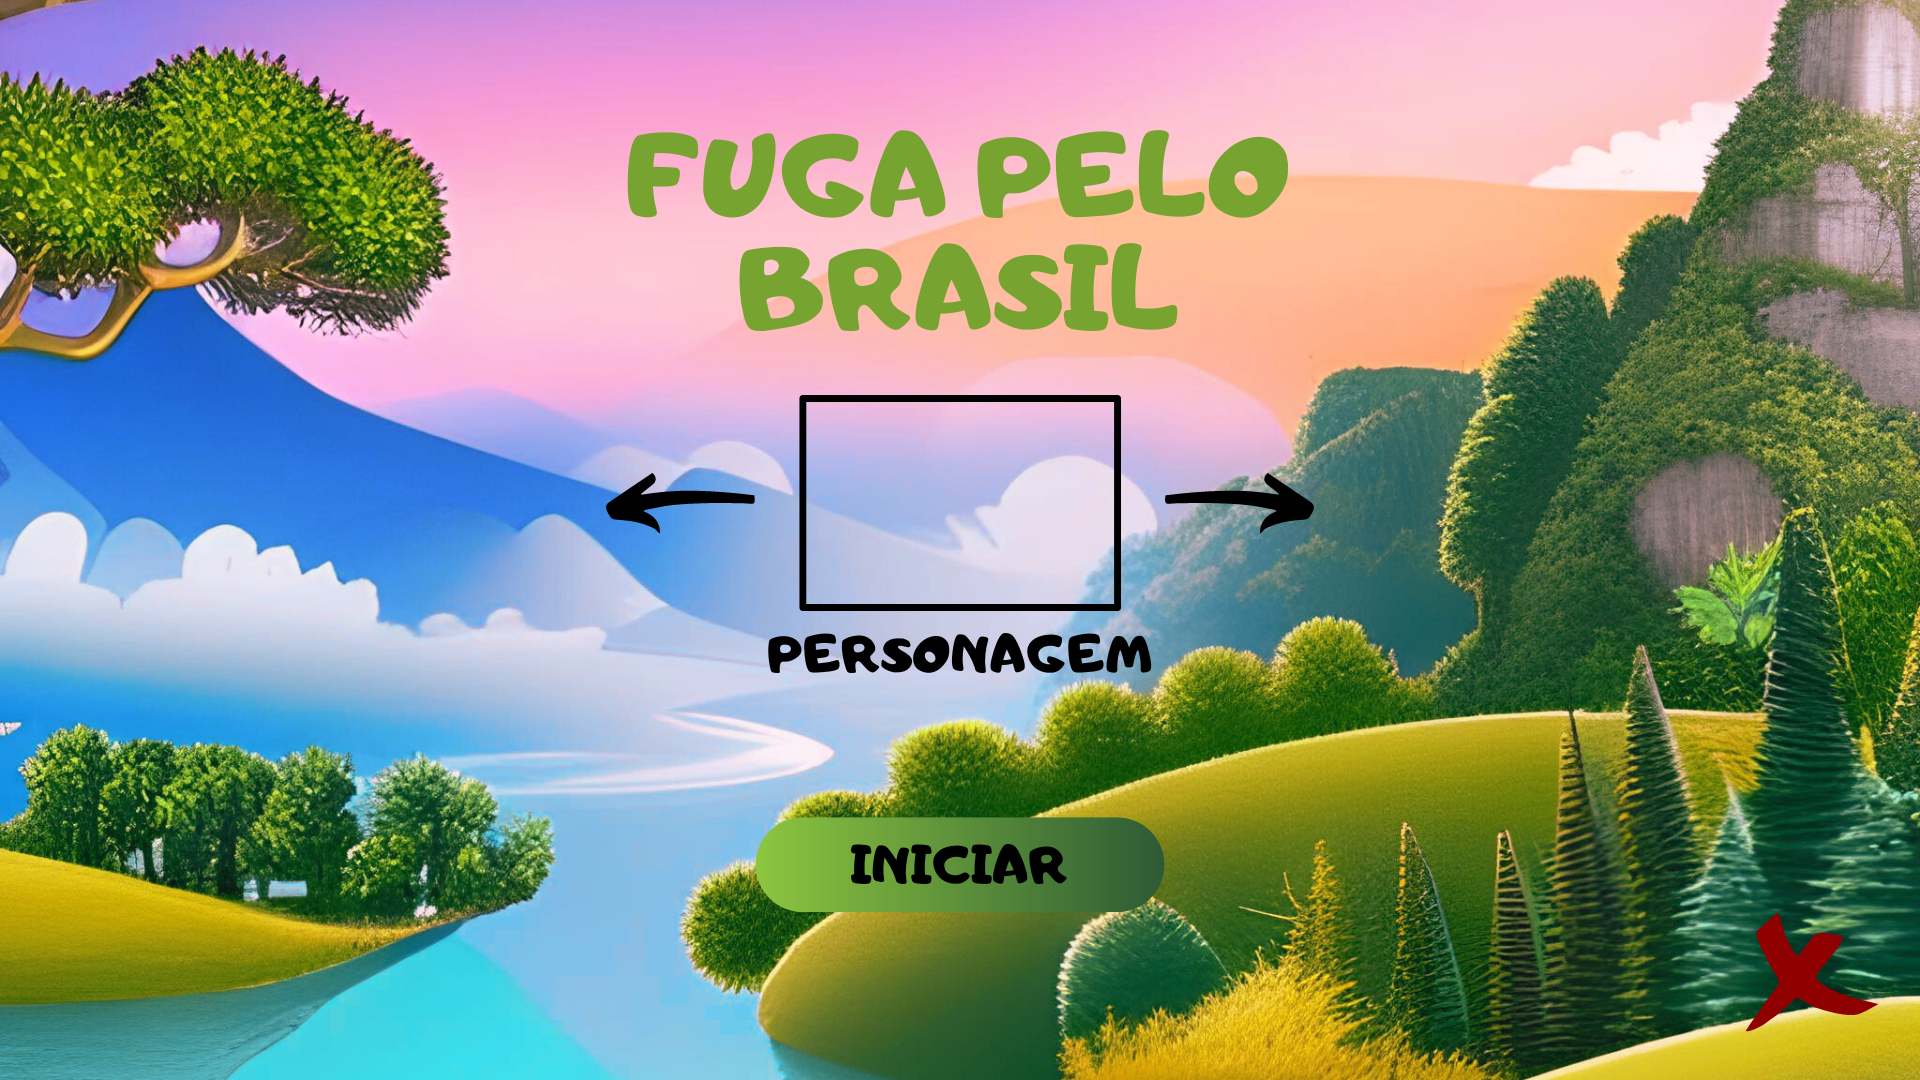
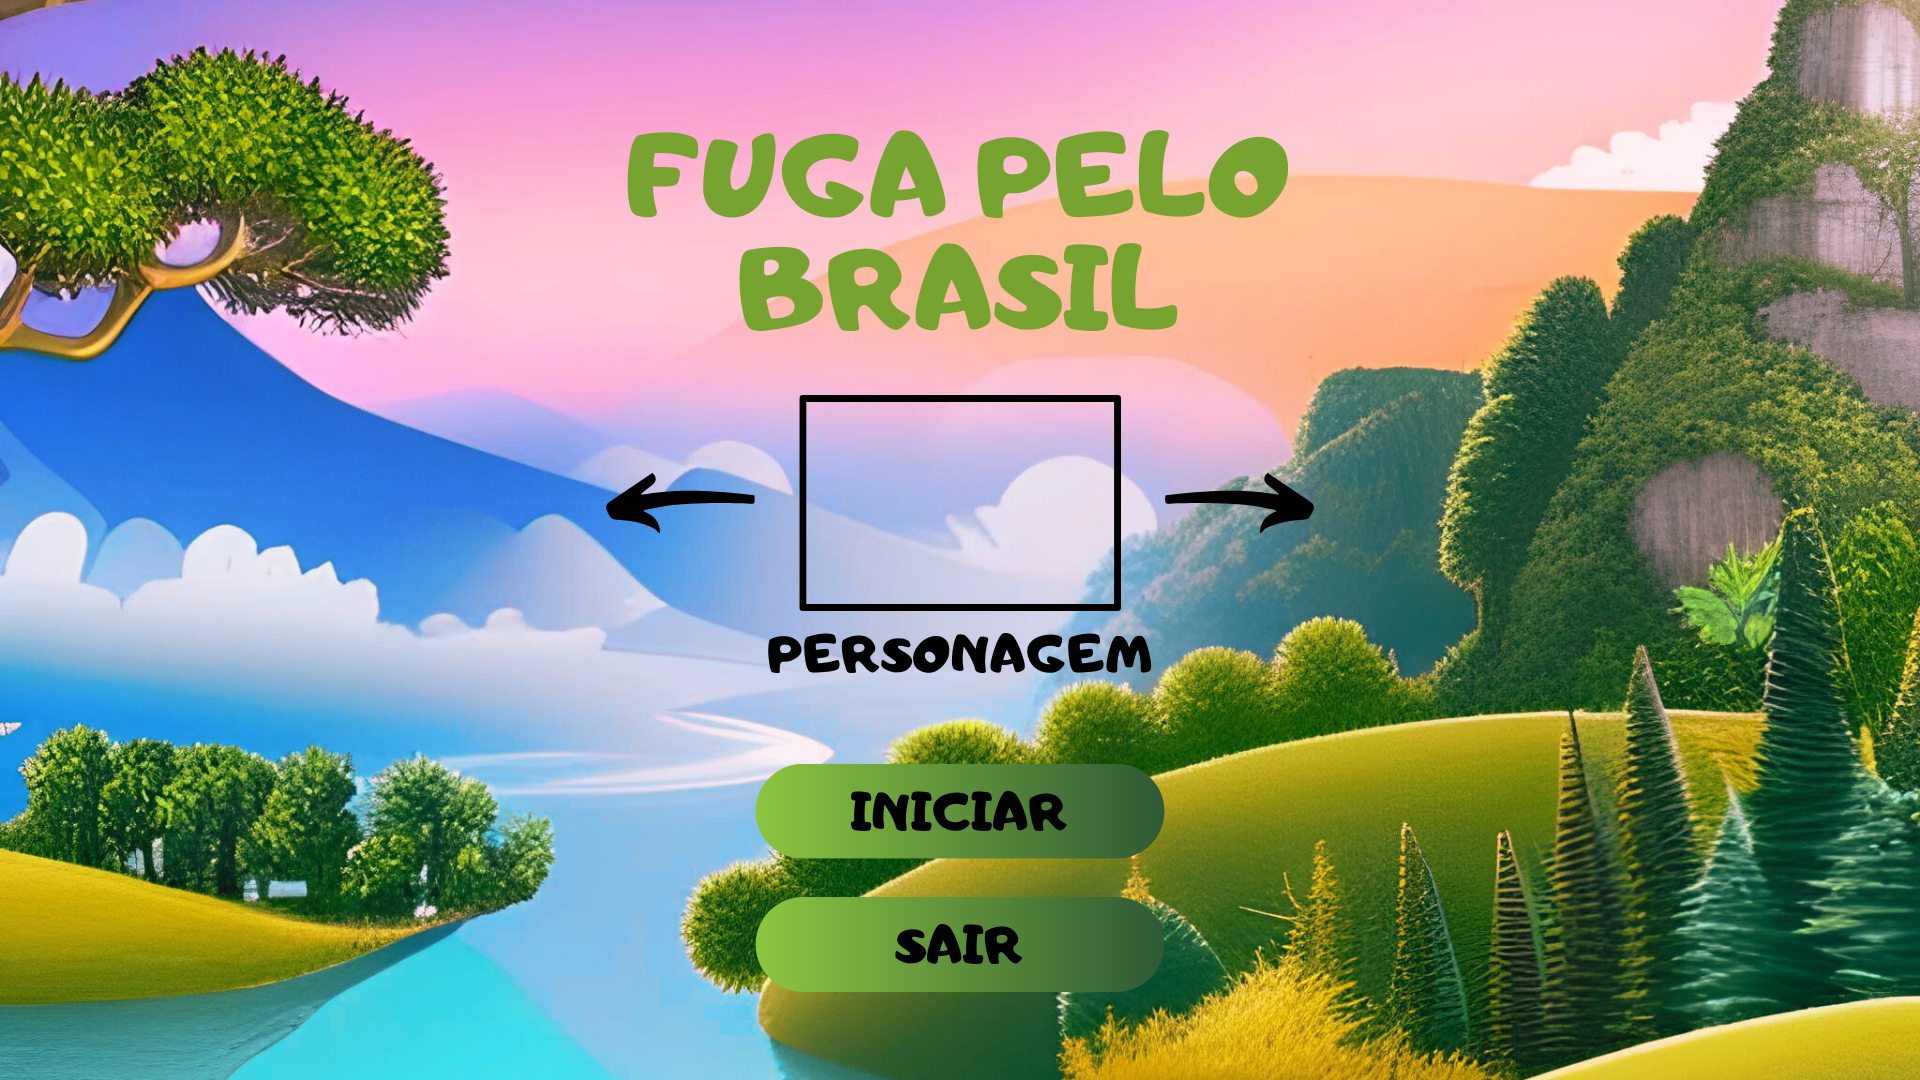
Atualização telas

Changed region(s): [[0.375, 0.7028, 0.625, 0.9167], [0.9062, 0.8556, 0.9688, 0.9472]]

diff --git a/GUI/README.md b/GUI/README.md
@@ -2,10 +2,10 @@ Documente aqui a interface gráfica definida para o jogo. Assim como no UML, a G
 
 Coloque aqui as principais telas do jogo, como tela de início e fim de jogo, jogabilidade, pausa, menus etc. Indique também (nas figuras ou textualmente) os mecanismos previstos para entrada pelos usuários: botões, teclas de teclado, zonas de swipe etc.
 
-Mecanismos de entrada pelos usuários: na tela de menu inicial o jogador pode clicar no botão iniciar para começãr o jogo, no x vermelho para sair do jogo, e nas setas no centro da tela para selecionar o personagem
+Mecanismos de entrada pelos usuários: na tela de menu inicial o jogador pode clicar no botão iniciar para começãr o jogo, no botao sair para sair do jogo, e nas setas no centro da tela para selecionar o personagem
 
 Na tela de jogabilidade principal o jogador podera usar as setas para cima e para baixo para se locomover, apertar o botao esc para pausar, ou clicar no botao de pausa
 
 Na tela de pausa o jogador podera clicar nos botoes para voltar ao jogo ou para sair da tentativa atual, voltando ao menu inicial
 
-Na tela de game over o jogador podera clicar para jogar novamente, clicar no x vermelho para sair do jogo.
+Na tela de game over o jogador podera clicar para jogar novamente, clicar no botao sair para sair do jogo.
